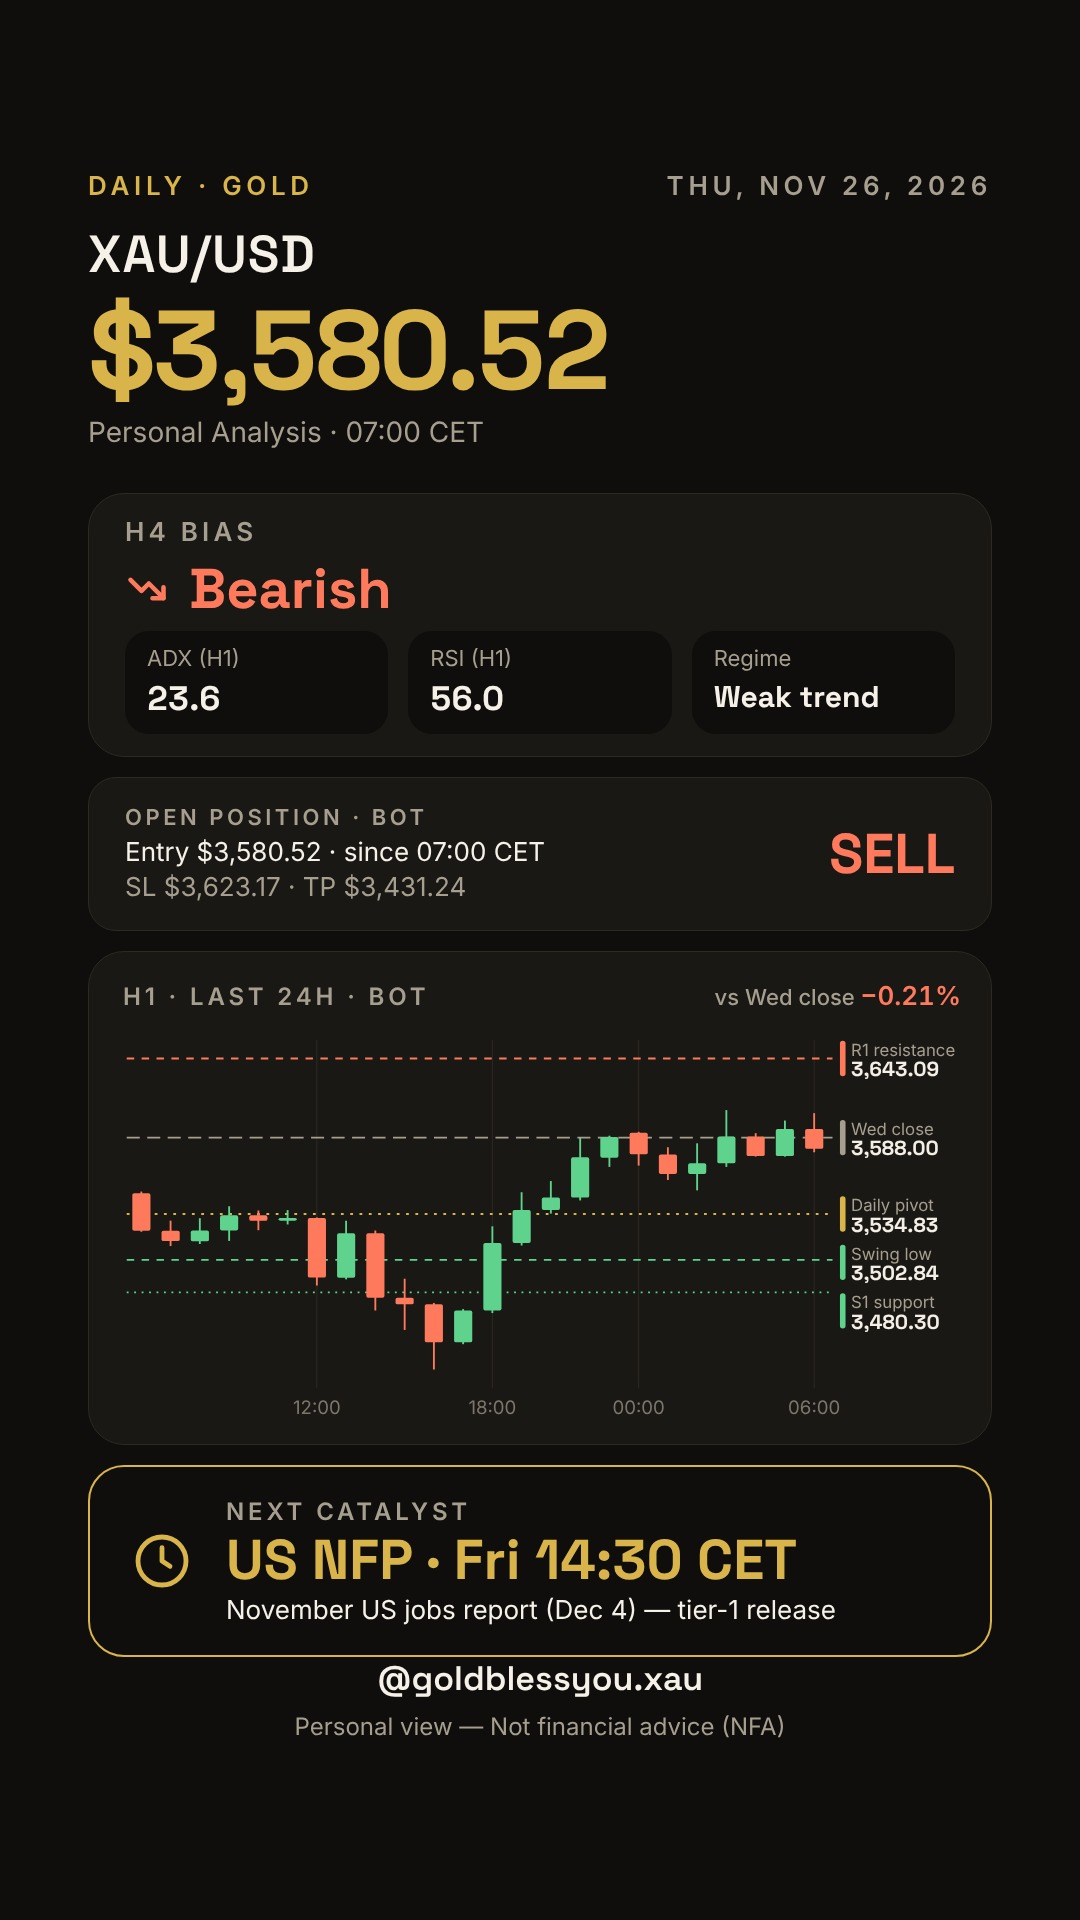
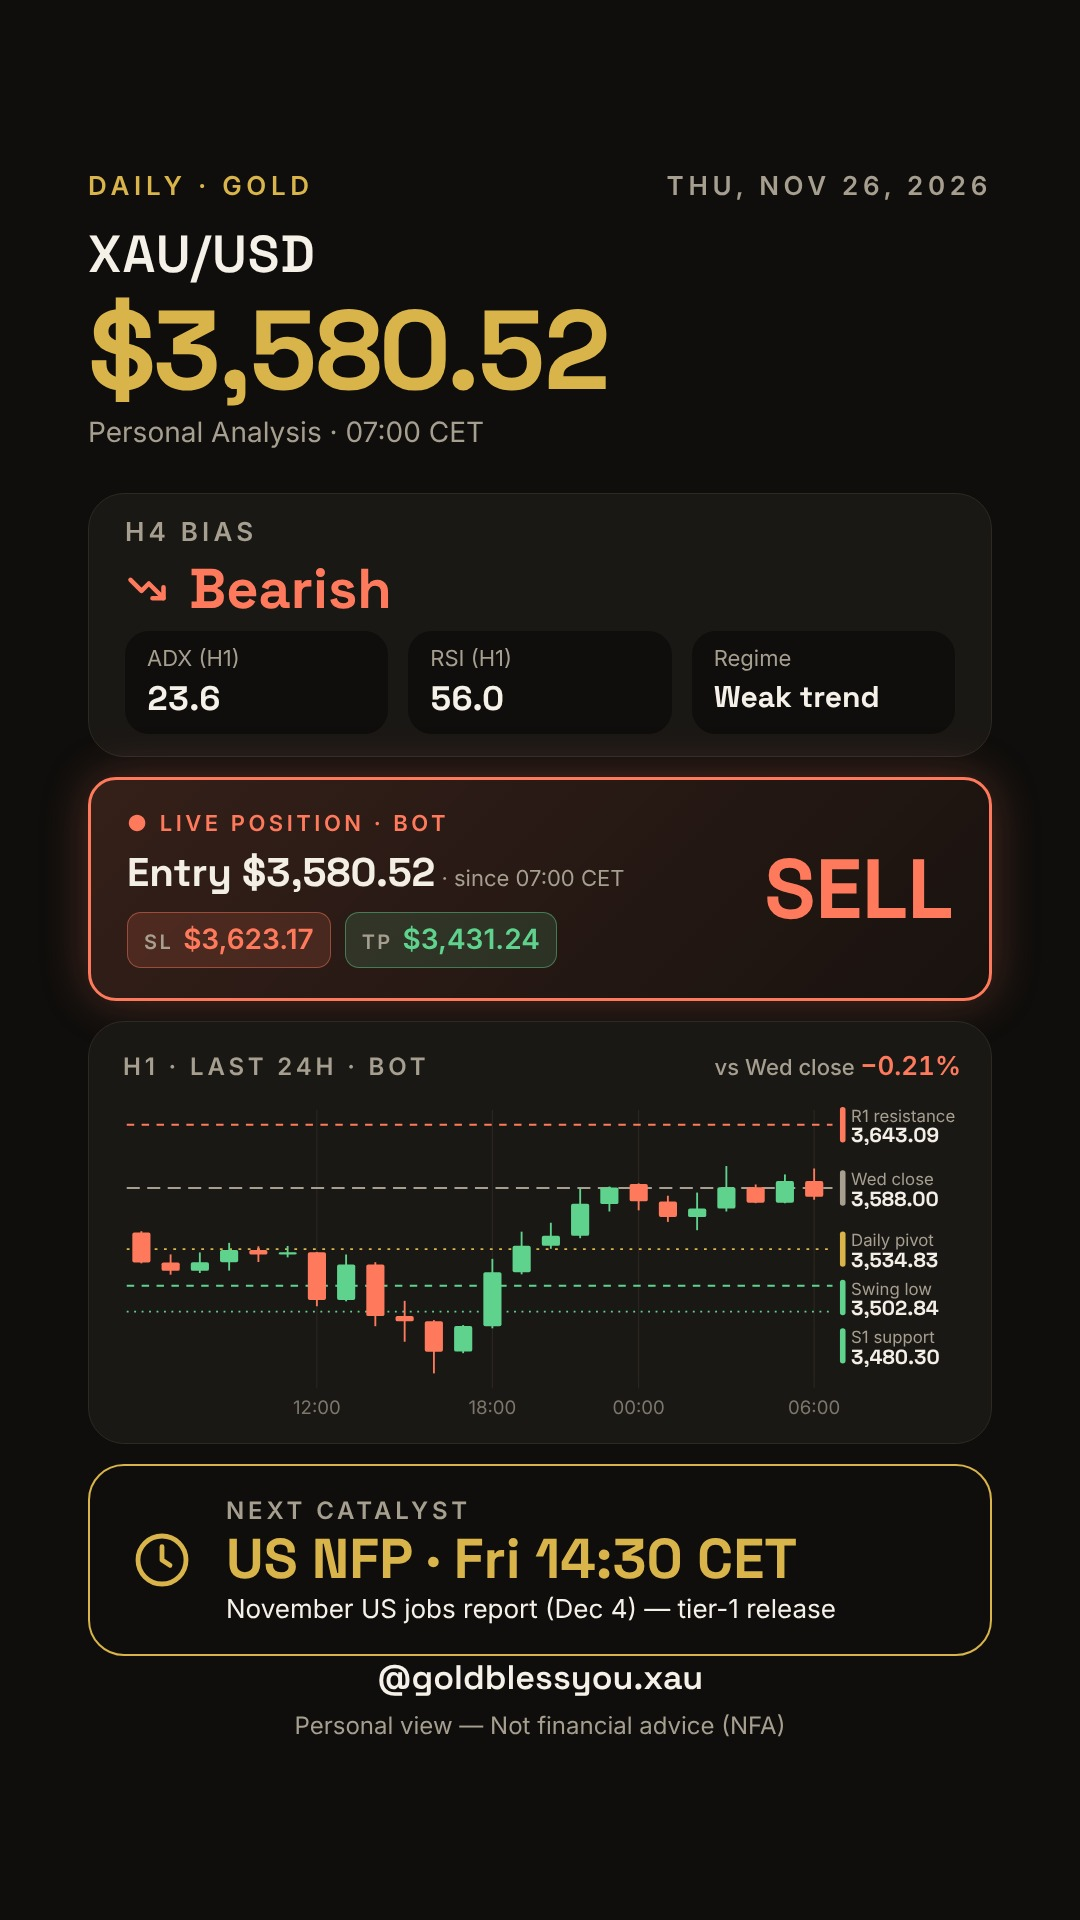
Daily story: highlight the bot's open position (live card, SL/TP chips, compact chart)

diff --git a/tools/render_daily.py b/tools/render_daily.py
@@ -50,9 +50,9 @@ PAGE = Template("""<!doctype html>
 <div style="display: flex; align-items: center; gap: 20px; font-family: 'Space Grotesk', sans-serif; font-size: $bias_size; line-height: 1; font-weight: 700; color: $bias_color">
 <svg width="$bias_icon" height="$bias_icon" viewBox="0 0 24 24" fill="none" stroke="currentColor" stroke-width="2.5" stroke-linecap="round" stroke-linejoin="round" aria-hidden="true">$bias_paths</svg>$bias_label</div>
 <div style="display: grid; grid-template-columns: repeat(3, minmax(0, 1fr)); gap: 20px">$tiles</div></div>
-<div style="background: #1A1815; border: 1px solid #2E2A22; border-radius: 28px; padding: 26px 36px; display: flex; align-items: center; justify-content: space-between; gap: 24px">
-<span style="display: flex; flex-direction: column; gap: 4px"><span style="font-size: 22px; letter-spacing: 0.16em; text-transform: uppercase; color: #A69F90; font-weight: 600">$decision_title</span><span style="font-size: 26px; line-height: 1.35">$decision_text</span></span>
-<span style="font-family: 'Space Grotesk', sans-serif; font-size: 56px; line-height: 1; font-weight: 700; color: $decision_color">$decision</span></div>
+<div style="$decision_box; border-radius: 28px; padding: $decision_pad; display: flex; align-items: center; justify-content: space-between; gap: 24px">
+<span style="display: flex; flex-direction: column; gap: $decision_gap"><span style="font-size: 22px; letter-spacing: 0.16em; text-transform: uppercase; color: $decision_title_color; font-weight: 600">$decision_title</span><span style="font-size: $decision_text_size; line-height: 1.35">$decision_text</span></span>
+<span style="font-family: 'Space Grotesk', sans-serif; font-size: $decision_size; line-height: 1; font-weight: 700; color: $decision_color">$decision</span></div>
 $levels
 $catalyst
 </div>
@@ -131,7 +131,7 @@ def build_levels(levels):
     return LEVELS.substitute(n=len(tiles), tiles="".join(tiles))
 
 
-def build_chart(candles, levels, prev_close, price=None):
+def build_chart(candles, levels, prev_close, price=None, height=430):
     """Graphique H1 en chandeliers (candles_h1 du JSON) + resistance / pivot du jour / cloture veille / support.
     Toutes les valeurs viennent du JSON du bot ; un niveau nul n'est pas trace. Aucune bougie -> chaine vide."""
     cs = [c for c in (candles or []) if None not in (c.get("o"), c.get("h"), c.get("l"), c.get("c"))]
@@ -152,7 +152,7 @@ def build_chart(candles, levels, prev_close, price=None):
     if levels.get("key_support_src") not in (None, "S1") and piv.get("pivot_s1") is not None:
         lines.append(("S1 support", piv["pivot_s1"], BULL, "2 6"))     # idem pour S1
     lines = [x for x in lines if x[1] is not None]
-    W, H, L, R, T, B = 900, 430, 4, 142, 16, 40
+    W, H, L, R, T, B = 900, height, 4, 142, 16, 40
     vals = [c["h"] for c in cs] + [c["l"] for c in cs] + [v for _, v, _, _ in lines]
     lo, hi = min(vals), max(vals)
     pad = (hi - lo) * 0.06 or 1
@@ -222,6 +222,8 @@ def build_html(a, ref, prev_close, prev_pct, prev_day, cat_title, cat_desc, leve
     decision_color = {"BUY": BULL, "SELL": BEAR}.get(decision, GOLD)
     decision_title = f"Bot decision · {(a.get('analysis_at') or '07:00')[-5:]} CET"
     decision_html = e(decision_text)
+    dstyle = dict(decision_box="background: #1A1815; border: 1px solid #2E2A22", decision_pad="26px 36px",
+                  decision_gap="4px", decision_title_color="#A69F90", decision_text_size="26px", decision_size="56px")
     if open_trades:                        # position en cours : elle remplace la decision horaire
         t = open_trades[0]
         decision = t["side"]
@@ -230,9 +232,23 @@ def build_html(a, ref, prev_close, prev_pct, prev_day, cat_title, cat_desc, leve
         l1 = f"Entry {money(t['entry'])}" + (f" · since {t['opened_at'][-5:]} CET" if t.get("opened_at") else "")
         l2 = " · ".join(x for x in (f"SL {money(t['stop_loss'])}" if t.get("stop_loss") is not None else "",
                                      f"TP {money(t['take_profit'])}" if t.get("take_profit") is not None else "") if x)
-        decision_html = e(l1) + (f'<br><span style="color: #A69F90">{e(l2)}</span>' if l2 else "")
+        rgb = "95, 211, 141" if decision == "BUY" else "255, 122, 92"
+        chip = ('<span style="display: inline-flex; gap: 10px; align-items: baseline; padding: 8px 16px; border-radius: 14px; '
+                'background: rgba({c}, 0.14); border: 1px solid rgba({c}, 0.45)"><span style="font-size: 20px; letter-spacing: 0.12em; '
+                'color: #A69F90; font-weight: 600">{k}</span><span style="font-size: 28px; font-weight: 700; color: {fg}">{v}</span></span>')
+        chips = [chip.format(c="255, 122, 92", fg=BEAR, k="SL", v=e(money(t["stop_loss"]))) if t.get("stop_loss") is not None else "",
+                 chip.format(c="95, 211, 141", fg=BULL, k="TP", v=e(money(t["take_profit"]))) if t.get("take_profit") is not None else ""]
+        decision_html = (f'<span style="font-family: \'Space Grotesk\', sans-serif; font-size: 40px; font-weight: 700; color: #F4EFE4">'
+                         f'Entry {e(money(t["entry"]))}</span>'
+                         + (f'<span style="font-size: 22px; color: #A69F90"> · since {e(t["opened_at"][-5:])} CET</span>' if t.get("opened_at") else "")
+                         + (f'<br><span style="display: inline-flex; gap: 14px; margin-top: 12px">{"".join(chips)}</span>' if any(chips) else ""))
+        dstyle = dict(decision_box=f"background: linear-gradient(135deg, rgba({rgb}, 0.16), rgba({rgb}, 0.04)); border: 3px solid {decision_color}; "
+                                   f"box-shadow: 0 0 48px rgba({rgb}, 0.28)",
+                      decision_pad="30px 36px", decision_gap="10px", decision_title_color=decision_color,
+                      decision_text_size="26px", decision_size="84px")
+        decision_title = "● " + decision_title.replace("Open position", "Live position")
 
-    chart = build_chart(candles, levels, price=a.get("price"), prev_close=prev_obj or ({'value': prev_close, 'day': prev_day} if prev_close is not None else None))
+    chart = build_chart(candles, levels, height=355 if open_trades else 430, price=a.get("price"), prev_close=prev_obj or ({'value': prev_close, 'day': prev_day} if prev_close is not None else None))
     pills = []
     if prev_close is not None and not chart:  # avec le graphique, la cloture veille est tracee dessus
         txt = f"{e(prev_day)} close: {money(prev_close)}"
@@ -260,7 +276,7 @@ def build_html(a, ref, prev_close, prev_pct, prev_day, cat_title, cat_desc, leve
         date_iso=ref.isoformat(), date_label=ref.strftime("%a, %b ") + str(ref.day) + ref.strftime(", %Y"),
         price=money(a["price"]), time=time_txt, pills="".join(pills),
         bias_color=bias_color, bias_paths=bias_icon, bias_label=bias_label, tiles="".join(tiles),
-        decision=e(decision), decision_text=decision_html, decision_title=e(decision_title), decision_color=decision_color,
+        decision=e(decision), decision_text=decision_html, decision_title=e(decision_title), decision_color=decision_color, **dstyle,
         levels=lv, catalyst=catalyst, handle=HANDLE,
         pad_top="170px" if chart else ("180px" if lv else "250px"), pad_bottom="250px" if chart else ("290px" if lv else "340px"),
         gap="20px" if chart else ("22px" if lv else "30px"),
